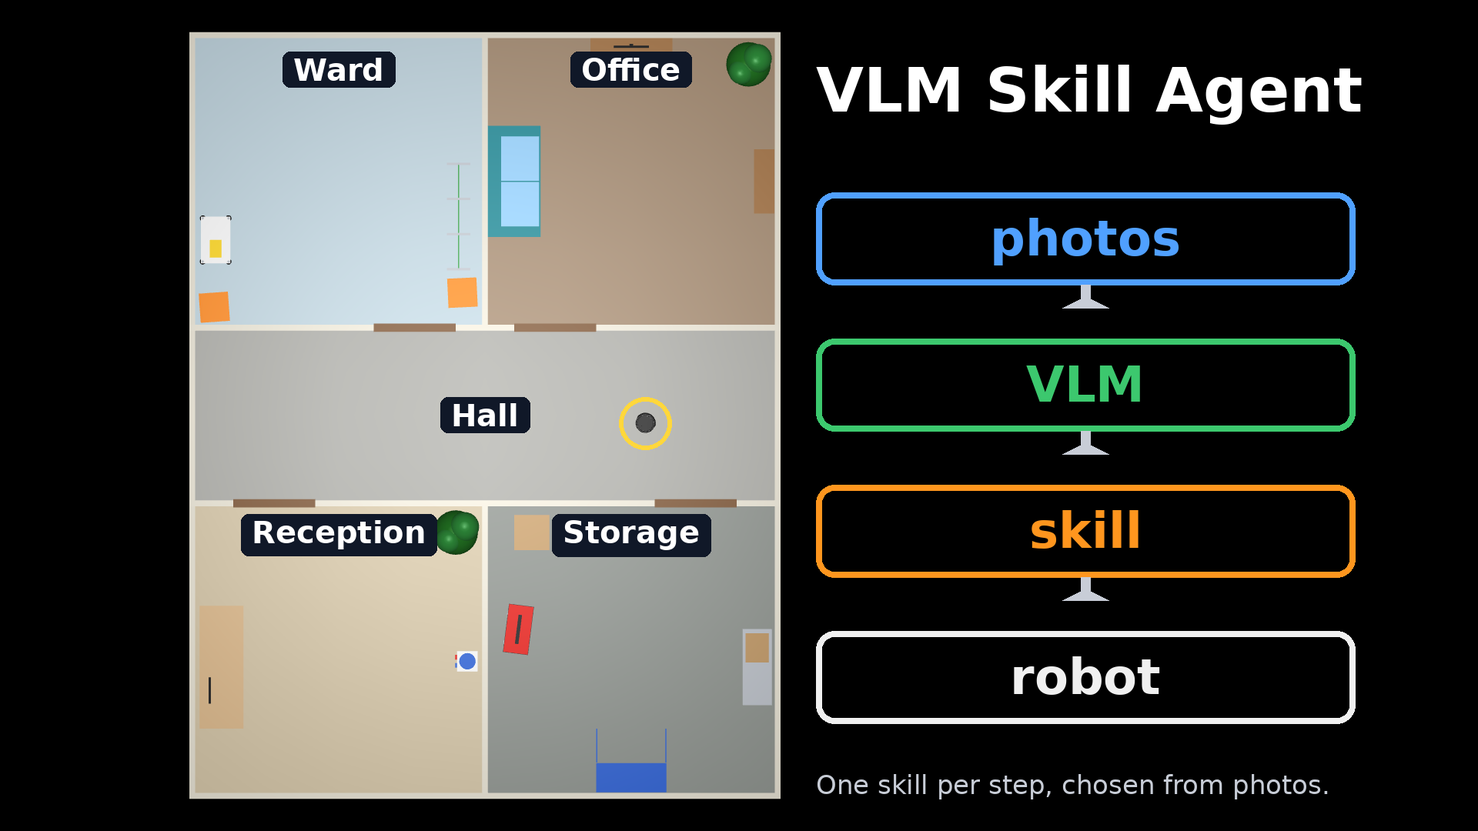
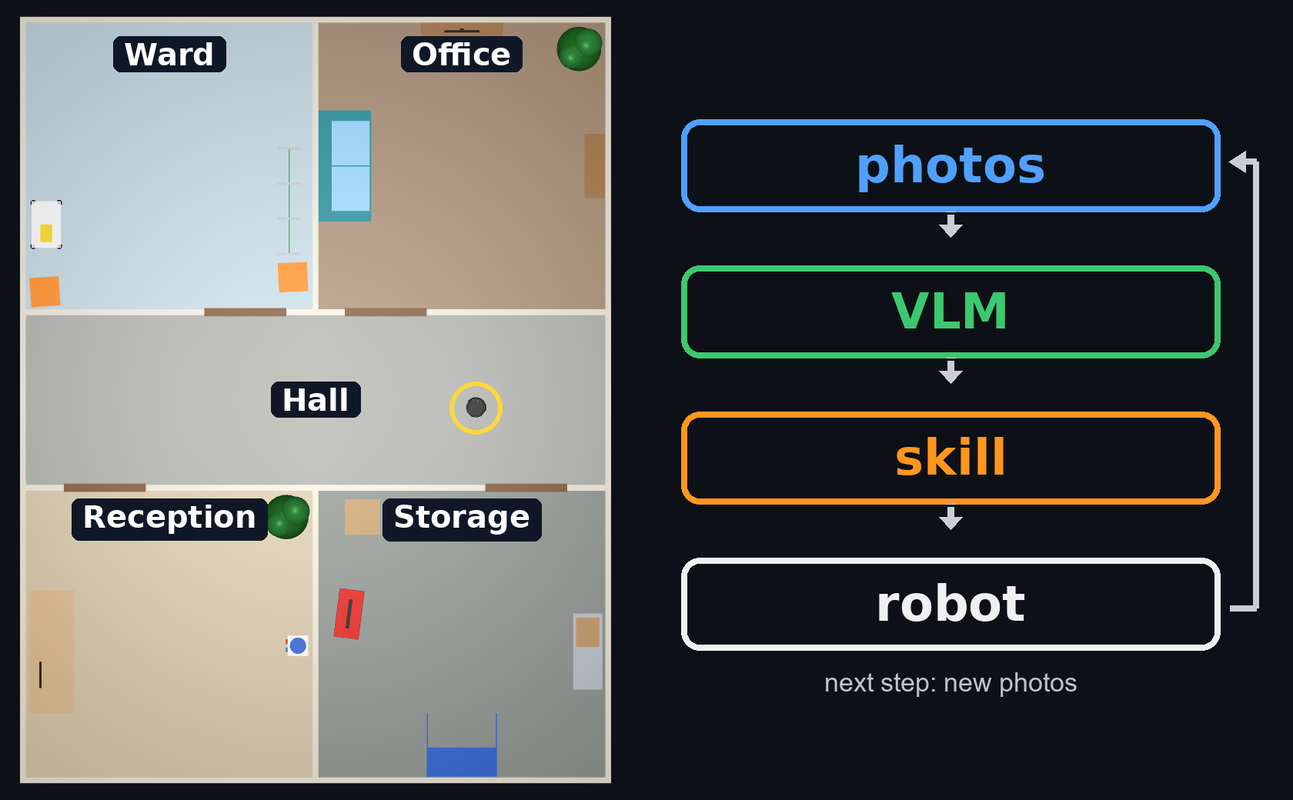
README: clean first screen, one hero GIF, honest results and quickstart
- New README: plain one-line summary, a single 15 s looping hero GIF (sped-up
  cut of the demo, speed-labelled) linked to the Pages player, results table
  with pass rules, error bars, the round-1 story and every miss class, and a
  quickstart whose core tests were run on Windows and Linux.
- The walk-through is now a static thumbnail (a counted failure), not a
  second GIF. Overview image recomposed (no duplicate title, loop arrow).
- Pages: the demo autoplays muted and loops; the walk-through waits for a click.
- Document the local tag workaround the runners need on a public clone;
  ignore runs/. Add CITATION.cff; fix the stale media note in LICENSES.md;
  move the scrub note into docs/.

diff --git a/index.html b/index.html
@@ -20,14 +20,16 @@
 <body>
 <main>
   <h1>VLM Skill Agent</h1>
-  <p class="muted">One vision-language model drives a TurtleBot 4 (Gazebo) and a Unitree G1 humanoid (MuJoCo) from camera
-    photos alone: 91/100 and 93/100 on the same 100 unseen tasks, with 0 lines of the agent changed. Simulation only.</p>
+  <p class="muted">One AI model that reads camera photos drives a wheeled TurtleBot 4 (Gazebo) and a walking Unitree G1
+    humanoid (MuJoCo): 91/100 and 93/100 on the same 100 unseen tasks, with the same agent code on both robots. Simulation only.</p>
 
   <h2 id="demo">Demo (2.5 min)</h2>
-  <video controls preload="metadata" poster="media/overview.png" src="media/vlm-agent-demo.mp4"></video>
+  <video autoplay muted loop playsinline controls preload="auto" poster="media/demo-poster.jpg" src="media/vlm-agent-demo.mp4"
+    aria-label="2.5-minute demo video"></video>
 
-  <h2 id="walkthrough">Walk-through (4 min): one task per type, with one counted failure</h2>
-  <video controls preload="metadata" src="media/vlm-skill-agent-demo.mp4"></video>
+  <h2 id="walkthrough">Walk-through (4 min): one task of each kind, with one counted failure</h2>
+  <video controls preload="none" poster="media/walkthrough-thumb.png" src="media/vlm-skill-agent-demo.mp4"
+    aria-label="4-minute walk-through video"></video>
 
   <p><a href="https://github.com/matus012/vlm-skill-agent">Code and README</a> ·
     <a href="docs/vlm-skill-agent-explained.pdf">Full explanation (PDF)</a></p>

diff --git a/README.md b/README.md
@@ -1,146 +1,199 @@
-# vlm-skill-agent
+# VLM Skill Agent
 
-[![demo video preview (GIF, 26 s): click to play the full 2.5-minute video](media/vlm-agent-demo.gif)](https://matus012.github.io/vlm-skill-agent/#demo)
+One AI model drives a wheeled robot and a walking humanoid in simulation, from camera photos alone. It scored **91/100** and **93/100** on the same 100 unseen tasks, with no training and the same agent code on both robots.
 
-**▶ Play:** [the 2.5-minute demo video](https://matus012.github.io/vlm-skill-agent/#demo) (above: a sped-up preview) ·
-[the 4-minute walk-through](https://matus012.github.io/vlm-skill-agent/#walkthrough), one task per type, with one counted failure
-([download mp4s](media/)) ·
-**Read:** [the full explanation (PDF)](docs/vlm-skill-agent-explained.pdf), rebuildable from
-[`docs/explained/`](docs/explained/)
+<p align="center">
+  <a href="https://matus012.github.io/vlm-skill-agent/#demo">
+    <img src="media/vlm-agent-demo.gif" width="860"
+         alt="Sped-up 15-second preview: the robot gets a task in plain words, looks around with its camera, the model answers and the simulator checks the answer; then the same agent drives a humanoid; final card: TurtleBot 4 91/100, Unitree G1 93/100">
+  </a>
+  <br>
+  <sub>15-second sped-up preview. Click it for the full 2.5-minute demo.</sub>
+</p>
 
-![overview: the simulated clinic and the loop photos → VLM → skill → robot](media/overview.png)
+- **What it does:** a vision-language model (an AI that understands both images and text) looks at numbered photos from the robot's camera. At each step it picks one action: go to a named room, look around, or give the answer.
+- **Headline result:** the bar, set before testing, was 18 of 25 for each of the four task kinds. Both robots, a TurtleBot 4 and a Unitree G1, cleared it on every kind. Simulation only.
+- **How:** the *model* is an open-source 27-billion-parameter AI ([Qwen3.8-27B](https://huggingface.co/Qwen/Qwen3.8-27B)), downloaded and never retrained. The *agent* is the Python code around it (prompt, three actions, a format check, in `agent/`). Each robot gets its own *adapter*, the small robot-specific part that turns "go to the office" into wheel or leg motion.
 
-**Goal:** find out whether one vision-language model, with one prompt and no training, can drive different robot
-bodies through ordinary tasks (find an object, check a cabinet, count chairs, act on what it saw) from camera photos
-alone. Measured on the same 100 unseen tasks, a wheeled TurtleBot 4 scored 91/100 and a walking Unitree G1 humanoid
-93/100, with 0 lines of the agent changed between them. Simulation only.
+[▶ Demo page](https://matus012.github.io/vlm-skill-agent/) · [Full write-up (PDF)](docs/vlm-skill-agent-explained.pdf) · [4-minute walk-through, with a counted failure](https://matus012.github.io/vlm-skill-agent/#walkthrough)
 
-[![walk-through preview: click for the 4-minute video](media/vlm-skill-agent-demo.gif)](https://matus012.github.io/vlm-skill-agent/#walkthrough)
-
-A vision-language model (VLM) plans a robot's work one step at a time. At each step it looks at numbered camera photos
-and picks exactly one skill: `navigate_to` (a named place), `look_around` (four photos, 90 degrees apart) or
-`report` (the answer). A runtime checks the call against a schema and runs it. The skills drive a TurtleBot 4 in
-Gazebo, and, with no change to the agent, a Unitree G1 humanoid in MuJoCo. The VLM never sees maps, coordinates, joint
-angles or which robot it is driving: only photos, place names, its own history and the task text.
-
-
-## Architecture
-
-```
- task text ──┐
- photos ─────┤   Packet (only what the VLM may see)
- place names ┤
- history ────┘          │
-                        ▼
-            VLM planner (Qwen3.8-27B on vLLM, OpenAI API, one tool call)
-                        │  one skill call
-                        ▼
-            runtime: parse + schema check ──invalid──► error text, costs a step
-                        │ valid
-                        ▼
-            skills: navigate_to / look_around / report
-                        │
-                        ▼
-            Adapter (go_to, turn_to, photo, pose, stop)
-              ├─ adapters/turtlebot4.py : Nav2 + AMCL in Gazebo Harmonic
-              └─ humanoid/adapter_g1.py : MuJoCo + a pretrained walking policy
-```
-
-`agent/` has no ROS imports (a test enforces it). Everything robot-specific sits behind the `Adapter` interface, so
-swapping the robot changes `adapters/` and `humanoid/` only. Ground truth (poses, object positions) is read by the
-scorer and the logging hooks, never by the planner.
-
-Tasks come in four kinds, asked about a small clinic of four rooms and a hall:
-- **find**: where is the red toolbox (name the room);
-- **check state**: is the blue cabinet open or closed;
-- **count**: how many chairs are in a room;
-- **conditional**: look in one place, then act on what you saw.
-
-## Layout
-
-| path | what |
-|---|---|
-| `agent/` | planner, skills, runtime, run log, scorer. No ROS. See `agent/README.md`, `agent/INTERFACES.md` |
-| `adapters/` | TurtleBot 4 adapter, the robot factory (`ROBOT=turtlebot4\|g1`), the one-task runner `run_task.py` |
-| `humanoid/` | Unitree G1 in MuJoCo: node, walking-policy driver, adapter, contacts, probes, tests |
-| `sim/` | Gazebo launch scripts, the generated clinic worlds and maps, the world generator |
-| `ros_ws/src/` | colcon overlay: `turtlebot4_description` with a 640x480, 90 degree camera |
-| `probes/` | run-list runner (`phase3_run.py`), per-phase gate scripts, checks |
-| `tasks/` | task lists, per-task scripts, task photo numbering |
-| `hpc/` | vLLM serving, apptainer images (`sim.def`, `g1.def`), SLURM job scripts for a GPU cluster |
-| `config/` | per-robot settings |
-| `tests/` | pytest suite (most of it needs no ROS or simulator) |
-
-## Run
-
-Only the pure-Python part runs anywhere. The simulators need Linux.
-
-**Tests (no ROS, no GPU)**
-```bash
-uv sync
-uv run pytest -q          # tests that need ROS, Gazebo, MuJoCo or a cluster skip or are marked in their docstring
-```
-
-**Stage 1, TurtleBot 4 in Gazebo.** Ubuntu 24.04, ROS 2 Jazzy, Gazebo Harmonic, `ros-jazzy-turtlebot4-description`
-2.1.1, Nav2, SLAM Toolbox, a GPU for rendering.
-```bash
-bash sim/build.sh && source sim/env.sh        # colcon overlay (build output goes to $BUILD_DIR/ros_ws, default ~/vlm_skill_agent_build)
-export ROS_DOMAIN_ID=17 GZ_PARTITION=world115
-setsid bash sim/launch_clinic.sh localization:=true nav2:=true > /tmp/clinic.log 2>&1 &
-python3 adapters/run_task.py --task find-toolbox --planner scripted --out runs/demo \
-        --script tasks/scripts/find-toolbox.yaml
-sim/stop.sh
-```
-`sim/INTERFACES.md` has the sim contract; `probes/camera_check.py` and `probes/nav_goal.py` are the first checks to run.
-
-**The VLM.** vLLM v0.32.0 serving `Qwen/Qwen3.8-27B` (about 56 GB of weights in BF16; one 141 GB GPU was used):
-```bash
-vllm serve Qwen/Qwen3.8-27B --tensor-parallel-size 1 --max-model-len 32768 \
-     --enable-auto-tool-choice --tool-call-parser qwen3_coder --reasoning-parser qwen3
-export VLM_BASE_URL=http://localhost:8000/v1 VLM_API_KEY=EMPTY VLM_MODEL=Qwen/Qwen3.8-27B
-python3 probes/vlm_probe.py --help           # check the endpoint with one photo
-python3 adapters/run_task.py --task find-toolbox --planner vlm --seed 1 --out runs/vlm_demo
-```
-A full list of tasks, as used for the results below:
-`python3 probes/phase3_run.py --list tasks/phase8_pass2.yaml --out runs/pass2` (needs the sim and the endpoint up;
-`hpc/PERUN_SIM.md` describes running several sims per job). Gates are scored by `probes/phase8_gates.py`.
-`hpc/` holds the SLURM scripts that were used; they expect `PROJ`, `LOGIN_NODE` and the placeholders `<PERUN_ACCOUNT>` /
-`<PROJECT_DIR>` in the `#SBATCH` lines to be filled in for your cluster.
-
-**Stage 2, Unitree G1 in MuJoCo.** Same agent, `ROBOT=g1`:
-```bash
-humanoid/setup.sh                              # pinned clones of WBC-AGILE and unitree_mujoco, a CPU-torch venv
-setsid humanoid/run_g1.sh humanoid/g1_node.py --clinic sim/worlds/clinic/layout.yaml &
-ROBOT=g1 python3 adapters/run_task.py --task find-toolbox --planner vlm --out runs/g1_demo
-```
-On a cluster the G1 stack is packed into an apptainer image: `hpc/build_sim.sh` then `hpc/build_g1.sh` (definition
-`hpc/g1.def`), and run through `hpc/g1_job.sbatch`. See `humanoid/README.md` for topics and details.
+<sub>By Matus Filo (BSc, Intelligent Systems, FEI TUKE), 2026.</sub>
 
 ## Results
 
-The same 100-task list was run on both robots: 25 tasks per kind, drawn from a sealed set the agent's prompt was never
-tuned on. Each task is scored by the simulator's own ground truth.
+The same 100 tasks went to both robots: 25 of each kind, from a test set written in advance and never used to tune the prompt (the G1 ran the exact list the TurtleBot had run, `tasks/phase8_pass2.yaml`). A task counts as passed only if four things hold: the answer matches the simulator's own record of the world (the ground truth), the photo the model cites really shows the object, the robot took 12 steps or fewer, and nothing crashed.
 
-| | find | check state | count | conditional | all |
-|---|---|---|---|---|---|
-| TurtleBot 4 (Phase 8, pass 2) | 24/25 | 20/25 | 24/25 | 23/25 | 91/100 |
-| Unitree G1 (Phase 10) | 24/25 | 20/25 | 24/25 | 25/25 | 93/100 |
+| task kind | TurtleBot 4 | Unitree G1 | example |
+|---|:-:|:-:|---|
+| find | 24/25 | 24/25 | "Where is the red toolbox?" |
+| check state | 20/25 | 20/25 | "Is the blue cabinet open?" |
+| count | 24/25 | 24/25 | "How many chairs in the office?" |
+| conditional | 23/25 | 25/25 | "If X is not in the ward, search storage." |
+| **all** | **91/100** | **93/100** | |
 
-- The bar was at least 18/25 for every kind; both robots clear it on all four.
-- Before the one allowed fix (one prompt sentence about look-alike colours), the TurtleBot's first pass on a different
-  sealed set scored find 21/25, check state 14/25, count 23/25, conditional 23/25.
-- Swapping the robot changed 0 lines of the agent: `git diff` of `agent/` against the frozen interface tag was empty.
+- **Small samples.** Each task was run once, and 25 tasks per kind give wide error bars: the true pass rate behind 20/25 could plausibly be anywhere from 61 % to 91 % (95 % Wilson interval). A gap of one or two tasks between the robots is noise.
+- **Round 1 failed one kind, then one fix, then a new test set.** The first TurtleBot round, on a different test set, scored 81/100, with check state at 14/25 (below the bar of 18). Of its 11 check-state failures, 7 were the model answering about a look-alike and 4 were simulator crashes; 10 runs crashed in total. Then one sentence about look-alike colours was added to the prompt. Two test-harness changes went in at the same time: the crashing simulator call is now retried, and the log check accepts a logged skip of that call. Everything in the table is from the second round, which had no crashes.
+- **Every miss was the model's mistake** (a wrong answer, or a right answer with a photo that does not show the object), never a robot fall or stall. 5 of the TurtleBot's 9 misses and 5 of the G1's 7 took a look-alike object for the blue cabinet. 3 TurtleBot misses called orange chairs "amber" or "golden" and missed them, and 1 merged two chairs into one.
 
-## Limits
+Sources: [`docs/explained/08-stage1.md`](docs/explained/08-stage1.md) (TurtleBot, both rounds, every miss listed) and [`docs/explained/09-stage2.md`](docs/explained/09-stage2.md) (G1). The per-run logs are not in this repository.
 
-- Simulation only. Nothing here was run on a real robot.
-- Primitive assets: boxes, cylinders and spheres in four rooms and a hall. Real clutter and textures are untested.
-- n = 25 per kind, so a single task is 4 points of a kind's score. Differences of a task or two between the robots are
-  noise.
-- The remaining failures are look-alike objects, for example a teal sofa taken for the blue cabinet.
-- The G1 walks with a pretrained policy at low speed, in an obstacle-light room; it is not a manipulation robot.
+<p align="center">
+  <a href="https://matus012.github.io/vlm-skill-agent/#walkthrough">
+    <img src="media/walkthrough-thumb.png" width="600"
+         alt="Still from the walk-through: a counted failure. Asked whether the blue cabinet is shut, the model cites a photo of a teal look-alike, answers yes, truth is no: FAIL">
+  </a>
+  <br>
+  <sub>Still from the walk-through: one counted failure, a teal look-alike taken for the blue cabinet.</sub>
+</p>
 
-## Licence
+## How it works
 
-The code in this repository is under the MIT licence ([LICENSE](LICENSE)). Vendored third-party parts keep their own
-licences; sources and what is not included are in [LICENSES.md](LICENSES.md).
+<p align="center">
+  <img src="media/overview.png" width="600" alt="Left: floor plan of the simulated clinic, four rooms and a hall. Right: photos go to the model, which picks a skill, which moves the robot">
+</p>
+
+The robot works in a small simulated clinic (four rooms and a hall). At every step the model receives only the task text, the latest numbered photos, the list of room names and its own history. It never sees maps, coordinates, joint angles, or which robot it is driving. It answers with exactly one action ("skill"):
+
+- `navigate_to(room)`: drive or walk to a named place, then take one photo;
+- `look_around()`: turn on the spot and take four photos, 90 degrees apart;
+- `report(answer, photo)`: give the answer and name the photo that proves it.
+
+A runtime checks the call against a fixed format, so a malformed call costs a step but never reaches the robot. Then the robot's adapter turns it into motion: Nav2 path planning for the TurtleBot in the Gazebo simulator, a pretrained walking policy for the G1 in the MuJoCo simulator. The model runs on a GPU server through [vLLM](https://github.com/vllm-project/vllm), which exposes it as a local web API.
+
+<details>
+<summary>Architecture diagram</summary>
+
+```
+ task text, photos, room names, history
+                  │  (nothing else)
+                  ▼
+   VLM planner: Qwen3.8-27B on vLLM, one tool call
+                  │
+                  ▼
+   runtime: parse + schema check ──invalid──► error, costs a step
+                  │ valid
+                  ▼
+   skills: navigate_to / look_around / report
+                  │
+                  ▼
+   Adapter (7 methods): go_to, turn_to, photo, pose, where, stop, sim_time
+     ├─ adapters/turtlebot4.py   Nav2 + AMCL, Gazebo Harmonic
+     └─ humanoid/adapter_g1.py   MuJoCo + walking policy
+```
+
+`agent/` has no ROS imports (a test enforces it). The G1 needed a whole new adapter (`humanoid/`); the agent above the adapter line did not change. "0 lines changed" comes from a `git diff` of `agent/` against the frozen tag, which was empty; that tag lives in the private development history, not in this public snapshot. What you can check here is `tests/test_interface_freeze.py`: it fails if the prompt, skill schemas, sampling settings or adapter API differ from the frozen copy in `tests/interface_freeze.json`. The simulator's ground truth is read only by the scorer and the logs, never by the planner.
+</details>
+
+## Quickstart
+
+**On a normal laptop** you can run the agent's logic with a fake robot and a fake model. Seeing a robot move needs Linux with ROS 2 and Gazebo or MuJoCo, and the real model needs a data-centre GPU (about 60 GB of memory or more).
+
+**Core tests: any OS, no GPU, under a minute.** Needs [uv](https://docs.astral.sh/uv/), which fetches Python 3.12 by itself. One command per line; works in bash and PowerShell:
+
+```bash
+git clone https://github.com/matus012/vlm-skill-agent.git
+cd vlm-skill-agent
+uv sync
+uv run pytest -q tests/test_agent_context.py tests/test_agent_no_ros.py tests/test_agent_runlog.py tests/test_agent_runtime.py tests/test_agent_skills.py tests/test_interface_freeze.py tests/test_scorer.py
+```
+
+Expected: `111 passed` in about 5–15 s (checked on Windows 11 and Ubuntu 24.04). These run whole tasks with a fake robot and a scripted model, and check the skill formats, the scorer and the frozen interface.
+
+<details>
+<summary>Full test suite (Linux, about 1,060 tests, about 40 minutes on a laptop CPU)</summary>
+
+```bash
+uv run --with "opencv-python-headless<4.12" pytest -q --ignore=tests/test_crosstalk.py --ignore=tests/test_face.py --ignore=tests/test_g1_close.py --ignore=tests/test_seg_compare.py
+```
+The four ignored files import ROS when they load; most tests that need a simulator skip themselves. On a fresh Ubuntu 24.04 clone this gave 1,033 passed, 22 skipped and 8 failed in 41 minutes. The 8 failures have not been looked into yet; 5 of them are in `tests/test_perun_plumbing.py`, which tests the cluster job scripts. On Windows, some world-file tests fail because git converts line endings and the files' hashes no longer match.
+</details>
+
+The full system needs Linux and a big GPU for the model. Each part is below. Where the PDF's "Reproduce" chapter differs from this README, this README is current. The robot commands were not re-run on this public snapshot.
+
+**Before any robot run on a public clone:** use `git clone` (not a ZIP; the runners record the commit). They also look up which frozen version of the simulated world they run on through git tags that exist only in the private development history, and stop with `no tag ... matches` without them. Tag the current commit once, locally (checked on a fresh Linux clone: the lookup then succeeds for every world):
+
+```bash
+git tag phase1-world-frozen-public && git tag phase4-world-cabinet-open-public && git tag phase6-world-blocked-public
+```
+
+<details>
+<summary><b>TurtleBot 4 in Gazebo</b> (Ubuntu 24.04, ROS 2 Jazzy, Gazebo Harmonic, a GPU for rendering)</summary>
+
+Also needs `ros-jazzy-turtlebot4-description` 2.1.1, Nav2 and SLAM Toolbox from apt (the full package list is in `hpc/sim.def`). The agent's Python packages go into a venv that can also see ROS's Python, as in `hpc/sim.def`. This runs one task with a fixed script in place of the model (`--planner scripted`), so no GPU server is needed yet:
+
+```bash
+source /opt/ros/jazzy/setup.bash
+uv venv --system-site-packages --python /usr/bin/python3 && uv sync --frozen --no-install-project
+source .venv/bin/activate
+bash sim/build.sh && source sim/env.sh        # camera overlay; build output in $BUILD_DIR (default ~/vlm_skill_agent_build)
+export ROS_DOMAIN_ID=17 GZ_PARTITION=clinic
+setsid bash sim/launch_clinic.sh localization:=true nav2:=true > /tmp/clinic.log 2>&1 &
+python3 adapters/run_task.py --task find-toolbox --planner scripted --out runs/demo --script tasks/scripts/find-toolbox.yaml
+sim/stop.sh
+```
+Expected (from the code; not re-run on this snapshot): the robot drives to the place in the script and the run folder `runs/demo/` holds `run.json`, one log line per step, the photos, and `score.json` with the verdict. `sim/INTERFACES.md` describes the simulator side. `probes/camera_check.py` and `probes/nav_goal.py` are the first checks.
+</details>
+
+<details>
+<summary><b>The model</b> (vLLM 0.32.0; 56 GB of weights plus room for the cache; the evaluation used one 141 GB H200)</summary>
+
+The serve command as the evaluation ran it (`hpc/serve_vllm.sbatch`):
+
+```bash
+vllm serve Qwen/Qwen3.8-27B --served-model-name qwen3.8-27b --tensor-parallel-size 1 --max-model-len 32768 \
+     --enable-auto-tool-choice --tool-call-parser qwen3_coder --reasoning-parser qwen3 --limit-mm-per-prompt '{"image": 4}'
+export VLM_BASE_URL=http://localhost:8000/v1 VLM_API_KEY=EMPTY VLM_MODEL=qwen3.8-27b
+python3 probes/vlm_probe.py --base-url $VLM_BASE_URL --model $VLM_MODEL --image your_photo.jpg --require 1
+python3 adapters/run_task.py --task find-toolbox --planner vlm --seed 1 --out runs/vlm_demo
+```
+`vlm_probe.py` sends one photo and checks that the server answers with valid skill calls. The agent calls the model with thinking on, temperature 1.0, top-p 0.95, top-k 20 and a per-task seed (`agent/planners.py`). The weights were downloaded by `hpc/fetch_weights.sh` without a pinned revision.
+
+The full 100-task list (a task takes 4–8 minutes, so about 9 hours one at a time; the evaluation ran several simulators in parallel on the cluster):
+`python3 probes/phase3_run.py --list tasks/phase8_pass2.yaml --out runs/pass2`, then `python3 probes/phase8_gates.py g1 --out runs/pass2` (the per-kind pass check). The G1 ran the same list with `ROBOT=g1` and is scored by `probes/phase10_gates.py`. File names keep the project's internal phase numbers: phase 8 is the TurtleBot test, phase 10 the G1 test. The generator that wrote the test lists is not public; the lists themselves are in `tasks/`.
+</details>
+
+<details>
+<summary><b>Unitree G1 humanoid in MuJoCo</b> (Linux with ROS 2 Jazzy and the TurtleBot block's build; CPU is enough for the robot; the model server as above)</summary>
+
+The counted G1 runs went through the cluster job `hpc/g1_job.sbatch` (container `hpc/g1.def`); the local path below follows the same steps but was not re-run for this README. The node and the runner must agree on the ROS domain, the partition and the scene folder:
+
+```bash
+source /opt/ros/jazzy/setup.bash && source .venv/bin/activate && source sim/env.sh   # as in the TurtleBot block
+humanoid/setup.sh                              # pinned clones of WBC-AGILE and unitree_mujoco, a CPU-only torch venv
+export ROS_DOMAIN_ID=18 GZ_PARTITION=g1 G1_SCENES=$HOME/g1_scenes
+export G1_SCENE_DIR=$G1_SCENES/$GZ_PARTITION
+setsid humanoid/run_g1.sh humanoid/g1_node.py --clinic sim/worlds/clinic/layout.yaml &
+ROBOT=g1 python3 adapters/run_task.py --task find-toolbox --planner vlm --seed 1 --out runs/g1_demo
+```
+`humanoid/README.md` and `hpc/g1_lib.sh` have the details.
+</details>
+
+<details>
+<summary><b>On a GPU cluster</b> (SLURM + Apptainer)</summary>
+
+The evaluation ran on a university H200 cluster. `hpc/` holds the container definitions (`sim.def`, `g1.def`) and the job scripts that were used. Fill in `PROJ`, `LOGIN_NODE` and the `#SBATCH` placeholders for your own cluster; see [`hpc/README.md`](hpc/README.md).
+</details>
+
+## Repository layout
+
+| path | what |
+|---|---|
+| `agent/` | planner, skills, runtime, run log, scorer; no ROS ([`agent/README.md`](agent/README.md)) |
+| `adapters/` | TurtleBot 4 adapter, robot factory (`ROBOT=turtlebot4\|g1`), one-task runner `run_task.py` |
+| `humanoid/` | Unitree G1 in MuJoCo: adapter, walking-policy driver, its own tests |
+| `sim/`, `ros_ws/` | Gazebo launch scripts, the generated clinic worlds and maps, the TurtleBot camera overlay |
+| `tasks/`, `probes/` | task lists; the list runner and scoring scripts |
+| `hpc/` | vLLM serving, container images, cluster job scripts |
+| `docs/` | the full write-up as a PDF and its Markdown sources |
+
+## Limitations
+
+- **Simulation only.** Nothing here was run on a real robot.
+- **Simple world.** Boxes, cylinders and spheres in four rooms and a hall; real clutter and textures are untested.
+- **One run per task**, sampled at a non-zero temperature. Run-to-run variation was not measured; a re-run of one G1 task for the video failed where the counted run had passed.
+- **Look-alike colours** remain the main failure (see Results).
+- The G1 walks slowly with a pretrained policy in an open room. It does not pick anything up.
+
+## Licence and credits
+
+Code: MIT ([LICENSE](LICENSE)). Built on [Qwen3.8-27B](https://huggingface.co/Qwen/Qwen3.8-27B) (Apache-2.0, weights not included), [vLLM](https://github.com/vllm-project/vllm), ROS 2 / Nav2 / SLAM Toolbox / Gazebo, [MuJoCo](https://mujoco.org), the [TurtleBot 4 description](https://github.com/turtlebot/turtlebot4) (Apache-2.0, vendored in `ros_ws/`), the [Unitree G1 MuJoCo model](https://github.com/unitreerobotics/unitree_mujoco) (BSD-3-Clause) and NVIDIA's [WBC-AGILE](https://github.com/nvidia-isaac/WBC-AGILE) walking policy (Apache-2.0). Versions and full terms: [LICENSES.md](LICENSES.md). To cite this work, use GitHub's "Cite this repository" button ([CITATION.cff](CITATION.cff)).

diff --git a/LICENSES.md b/LICENSES.md
@@ -39,5 +39,5 @@ Details for the G1 stack are also in `humanoid/LICENSES.md`.
 |---|---|---|
 | `Qwen/Qwen3.8-27B` (the VLM) | https://huggingface.co/Qwen/Qwen3.8-27B | Apache-2.0 (the licence field of the model card, checked 2026-11-06) |
 
-No weights, container images, videos or camera frames are stored in this repository, except the README's demo GIF
-(`media/demo.gif`, cut from this project's own showcase video).
+No weights or container images are stored in this repository. The videos, GIFs and stills in `media/` and the frames
+in the PDF under `docs/` are this project's own renders of its simulations.
